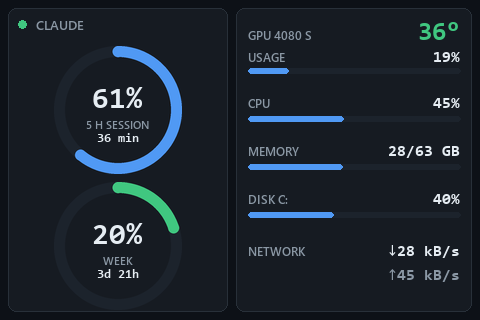
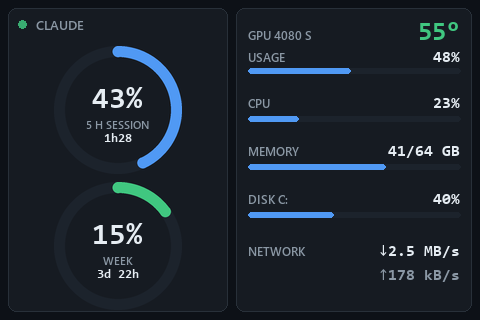
Demo pictures from the real renderer, with made-up values
`--demo DIR` writes a still frame and a 6-second animated WebP per
language, driven by the app's own ring fill, lerp and breathing code on
a scripted clock. The README now shows the animation instead of a
screenshot of personal numbers.

diff --git a/minimonitor/demo.py b/minimonitor/demo.py
@@ -1,0 +1,72 @@
+# SPDX-License-Identifier: GPL-3.0-or-later
+"""Demo frames with made-up values, for the README and the website.
+
+Uses the real renderer and the real animation code (ring fill, lerp, breathing),
+driven by a scripted clock, so the pictures show exactly what the screen does.
+"""
+
+from __future__ import annotations
+
+from datetime import datetime, timedelta, timezone
+from pathlib import Path
+
+from PIL import Image
+
+from . import theme
+from .app import Gauge, pulse, smooth
+from .i18n import Texts
+from .pc import Snapshot
+from .render import Ring, View, render
+from .usage import Window
+
+FPS = 25
+SECONDS = 6.0
+NOW = datetime(2026, 10, 17, 14, 0, tzinfo=timezone.utc)
+SESSION = Window(43, NOW + timedelta(hours=1, minutes=29))
+WEEK = Window(15, NOW + timedelta(days=3, hours=22, minutes=10))
+SESSION_LATER = Window(47, SESSION.resets_at)  # a new reading, to show the glow
+SESSION_UPDATE_AT = 3.5
+MB = 1_000_000
+
+# One PC sample per second, as the app reads them.
+SAMPLES = [
+    Snapshot(52, 31, 14, 40.6, 63.7, 40, 1.9 * MB, 140_000),
+    Snapshot(53, 37, 18, 40.8, 63.7, 40, 2.4 * MB, 180_000),
+    Snapshot(54, 58, 27, 41.2, 63.7, 40, 3.1 * MB, 220_000),
+    Snapshot(55, 44, 22, 41.0, 63.7, 40, 2.2 * MB, 160_000),
+    Snapshot(54, 35, 16, 40.9, 63.7, 40, 1.6 * MB, 120_000),
+    Snapshot(54, 37, 18, 41.0, 63.7, 40, 2.4 * MB, 180_000),
+]
+
+
+def frames(texts: Texts, gpu_label: str = "GPU 4080 S") -> list[Image.Image]:
+    session, week = Gauge(), Gauge()
+    shown_pc = None
+    out = []
+    dt = 1 / FPS
+    for i in range(round(SECONDS * FPS)):
+        t = i * dt
+        session_window = SESSION_LATER if t >= SESSION_UPDATE_AT else SESSION
+        session.set(session_window.percent, t)
+        week.set(WEEK.percent, t)
+        shown_pc = smooth(shown_pc, SAMPLES[min(int(t), len(SAMPLES) - 1)], dt)
+        out.append(render(View(
+            now=NOW + timedelta(seconds=t), pulse=pulse(t), live=True,
+            session=Ring(session_window, session.shown(t), session.glow(t), theme.BLUE, texts.session),
+            week=Ring(WEEK, week.shown(t), week.glow(t), theme.GREEN, texts.week),
+            pc=shown_pc, texts=texts, gpu_label=gpu_label,
+        )))
+    return out
+
+
+def write_demo(directory: str, texts: Texts, lang: str) -> list[Path]:
+    """Writes screen-<lang>.png (a settled frame) and screen-<lang>.webp (the animation)."""
+    out_dir = Path(directory)
+    out_dir.mkdir(parents=True, exist_ok=True)
+    images = frames(texts)
+    still = out_dir / f"screen-{lang}.png"
+    images[round(3.2 * FPS)].save(still, optimize=True)  # rings full, before the glow
+    animation = out_dir / f"screen-{lang}.webp"
+    images[0].save(animation, save_all=True, append_images=images[1:], duration=round(1000 / FPS),
+                   loop=0, lossless=True, method=6)
+    return [still, animation]

diff --git a/minimonitor/app.py b/minimonitor/app.py
@@ -71,6 +71,11 @@ class Gauge:
         return max(0.0, 1 - age / GLOW_SECONDS) if self.has_value else 0.0
 
 
+def pulse(seconds: float) -> float:
+    """Breathing of the live dot: 0..1, one breath every BREATH_SECONDS."""
+    return 0.5 - 0.5 * math.cos(2 * math.pi * seconds / BREATH_SECONDS)
+
+
 def approach(current: float | None, target: float | None, dt: float, tau: float = SMOOTH_SECONDS) -> float | None:
     """Exponential lerp toward target; snaps once close so the frame stops changing."""
     if current is None or target is None:
@@ -157,7 +162,7 @@ def run(open_display: Callable[[], Display], brightness: int = 60, texts: Texts 
 
         view = View(
             now=now,
-            pulse=0.5 - 0.5 * math.cos(2 * math.pi * (tick - t0) / BREATH_SECONDS),
+            pulse=pulse(tick - t0),
             live=s is not None or w is not None,
             session=Ring(s, session.shown(tick), session.glow(tick), theme.BLUE, texts.session),
             week=Ring(w, week.shown(tick), week.glow(tick), theme.GREEN, texts.week),

diff --git a/minimonitor/__main__.py b/minimonitor/__main__.py
@@ -59,11 +59,18 @@ def single_instance(wait_seconds: float = 15):
 def main() -> None:
     parser = argparse.ArgumentParser(prog="minimonitor")
     parser.add_argument("--preview", metavar="PNG", help="render one frame with live data to a PNG and exit")
+    parser.add_argument("--demo", metavar="DIR", help="write demo pictures (made-up values) to DIR and exit")
     parser.add_argument("--port", help="serial port (default: auto-detect)")
     parser.add_argument("--brightness", type=int, default=60)
     parser.add_argument("--lang", choices=sorted(LANGUAGES), default="fr", help="screen language")
     args = parser.parse_args()
     texts = LANGUAGES[args.lang]
+
+    if args.demo:
+        from .demo import write_demo
+        for path in write_demo(args.demo, texts, args.lang):
+            print(path)
+        return
 
     if args.preview:
         from .preview import write_preview

diff --git a/tests/test_demo.py b/tests/test_demo.py
@@ -1,0 +1,19 @@
+# SPDX-License-Identifier: GPL-3.0-or-later
+from PIL import Image
+
+from minimonitor import demo
+from minimonitor.i18n import EN
+
+
+def test_demo_animation_is_deterministic_and_settles(tmp_path):
+    first, again = demo.frames(EN), demo.frames(EN)
+    assert len(first) == round(demo.SECONDS * demo.FPS)
+    assert all(a.tobytes() == b.tobytes() for a, b in zip(first[::30], again[::30]))
+    assert first[0].tobytes() != first[-1].tobytes()  # it moves
+
+
+def test_demo_files(tmp_path):
+    still, animation = demo.write_demo(str(tmp_path), EN, "en")
+    assert Image.open(still).size == (480, 320)
+    with Image.open(animation) as im:
+        assert im.n_frames == round(demo.SECONDS * demo.FPS)

diff --git a/README.fr.md b/README.fr.md
@@ -6,7 +6,7 @@ Un petit tableau de bord sobre pour l'écran USB de 3,5" vendu sous les noms **T
 Screen** ou **UsbMonitor**, écrit pour remplacer le logiciel du fabricant. À gauche, la
 **consommation de ton abonnement Claude** ; à droite, le PC.
 
-![Mini Monitor sur l'écran de 3,5" : deux anneaux pour la session de 5 h et la semaine Claude, puis carte graphique, processeur, mémoire, disque et réseau](docs/screen-fr.png)
+![Mini Monitor sur l'écran de 3,5" : deux anneaux pour la session de 5 h et la semaine Claude, puis carte graphique, processeur, mémoire, disque et réseau](docs/screen-fr.webp)
 
 - **Claude en vedette.** Deux anneaux pour la session de 5 h et la semaine, avec le temps restant
   avant chaque remise à zéro. Ambre dès 75 %, rouge dès 90 %.
@@ -53,6 +53,7 @@ Ferme d'abord le logiciel du fabricant : un seul programme peut parler à l'écr
 | `--brightness 0-100` | rétroéclairage (60 par défaut) |
 | `--port COM3` | port série (détecté par défaut) |
 | `--preview image.png` | dessine une image avec les vraies données, sans l'écran |
+| `--demo dossier` | écrit l'image et l'animation de démonstration (valeurs inventées) |
 
 ## Démarrer avec Windows
 

diff --git a/README.md b/README.md
@@ -6,7 +6,7 @@ A small, quiet dashboard for the 3.5" USB screen sold as **Turing Smart Screen**
 **UsbMonitor**, written to replace the vendor software. The left half shows your **Claude plan
 usage**; the right half shows the PC.
 
-![Mini Monitor on the 3.5" screen: two rings for the Claude 5-hour session and week, then GPU, CPU, memory, disk and network](docs/screen-en.png)
+![Mini Monitor on the 3.5" screen: two rings for the Claude 5-hour session and week, then GPU, CPU, memory, disk and network](docs/screen-en.webp)
 
 - **Claude first.** Two rings for the 5-hour session and the week, with the time left before each
   reset. Numbers turn amber from 75 % and red from 90 %.
@@ -53,6 +53,7 @@ Close the vendor software first: only one program can talk to the screen at a ti
 | `--brightness 0-100` | backlight (default 60) |
 | `--port COM3` | serial port (default: detected) |
 | `--preview file.png` | draw one frame with live data to a PNG, without the screen |
+| `--demo folder` | write the demo picture and animation (made-up values) used here |
 
 Stop it with Ctrl+C.
 
